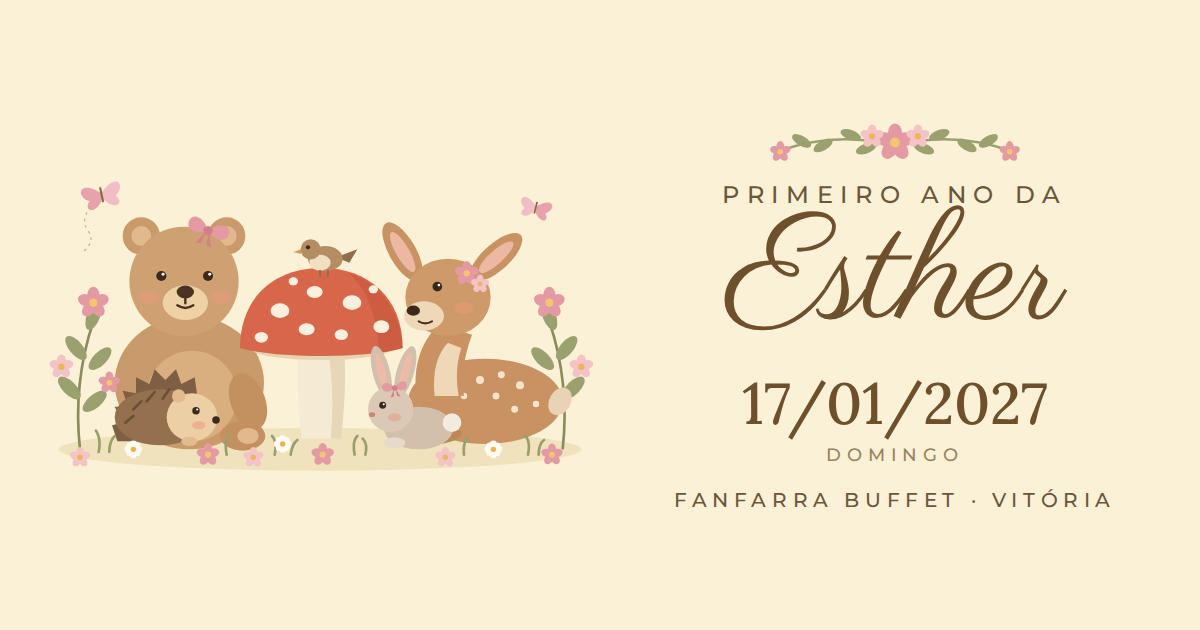
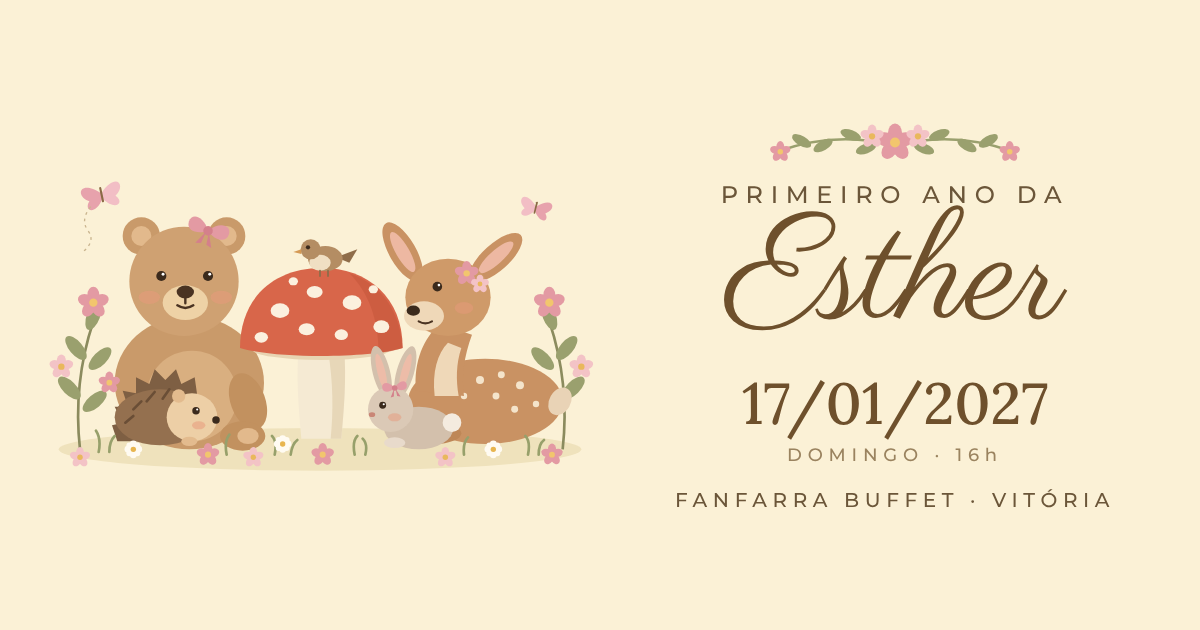
Add files via upload

diff --git a/index.html b/index.html
@@ -4,14 +4,14 @@
 <meta charset="utf-8">
 <meta name="viewport" content="width=device-width, initial-scale=1, viewport-fit=cover">
 <title>Primeiro ano da Esther — confirme sua presença</title>
-<meta name="description" content="Domingo, 17 de janeiro de 2027, no Fanfarra Buffet, em Vitória. Confirme sua presença até 10/12.">
+<meta name="description" content="Domingo, 17 de janeiro de 2027, às 16h, no Fanfarra Buffet, em Vitória. Confirme sua presença até 10/12.">
 <link rel="icon" type="image/svg+xml" href="favicon.svg">
 <link rel="apple-touch-icon" href="apple-touch-icon.png">
 <meta name="theme-color" content="#FBF1D6">
 <meta property="og:type" content="website">
 <meta property="og:locale" content="pt_BR">
 <meta property="og:title" content="Primeiro ano da Esther">
-<meta property="og:description" content="Domingo, 17 de janeiro de 2027, no Fanfarra Buffet, em Vitória. Confirme sua presença até 10/12.">
+<meta property="og:description" content="Domingo, 17 de janeiro de 2027, às 16h, no Fanfarra Buffet, em Vitória. Confirme sua presença até 10/12.">
 <meta property="og:url" content="https://jotatxf.github.io/aniversario-Esther/">
 <meta property="og:image" content="https://jotatxf.github.io/aniversario-Esther/preview.png">
 <meta property="og:image:type" content="image/png">
@@ -173,7 +173,7 @@ button:focus-visible,input:focus-visible,a:focus-visible,summary:focus-visible{o
       <svg viewBox="0 0 14 13" style="color:#D98C95"><path d="M7 12.2C3 9.4.5 7.2.5 4.3.5 2.2 2.1.7 4 .7c1.3 0 2.4.7 3 1.8C7.6 1.4 8.7.7 10 .7c1.9 0 3.5 1.5 3.5 3.6 0 2.9-2.5 5.1-6.5 7.9z" fill="currentColor"/></svg>
     </div>
     <p class="data">17/01/2027</p>
-    <p class="dia">Domingo</p>
+    <p class="dia">Domingo · <span style="text-transform:none">16h</span></p>
     <p class="local">Fanfarra Buffet</p>
     <p class="endereco">Av. Cezar Hilal, 508 – Bento Ferreira<br>Vitória – ES</p>
     <div class="acoes">
